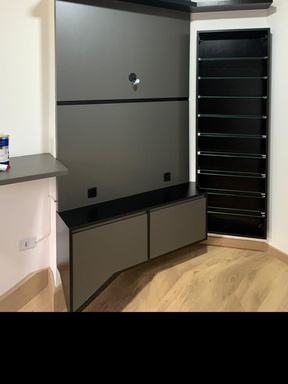
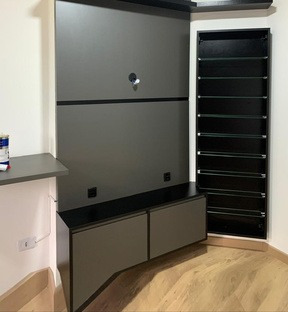
Corrige QA visual: remove tarja preta da foto e suaviza o carrossel
Testei no Chrome pela primeira vez nesta sessão: a foto do painel de
TV tinha uma faixa preta de recorte na parte de baixo (cortei o
arquivo). Troquei o scroll-snap dos depoimentos de "mandatory" para
"proximity" para não prender o scroll vertical do visitante.

diff --git a/css/style.css b/css/style.css
@@ -402,7 +402,7 @@ a {
   display: flex;
   gap: 18px;
   overflow-x: auto;
-  scroll-snap-type: x mandatory;
+  scroll-snap-type: x proximity;
   padding: 4px 24px 12px;
   margin: 0 -24px 16px;
   -webkit-overflow-scrolling: touch;
